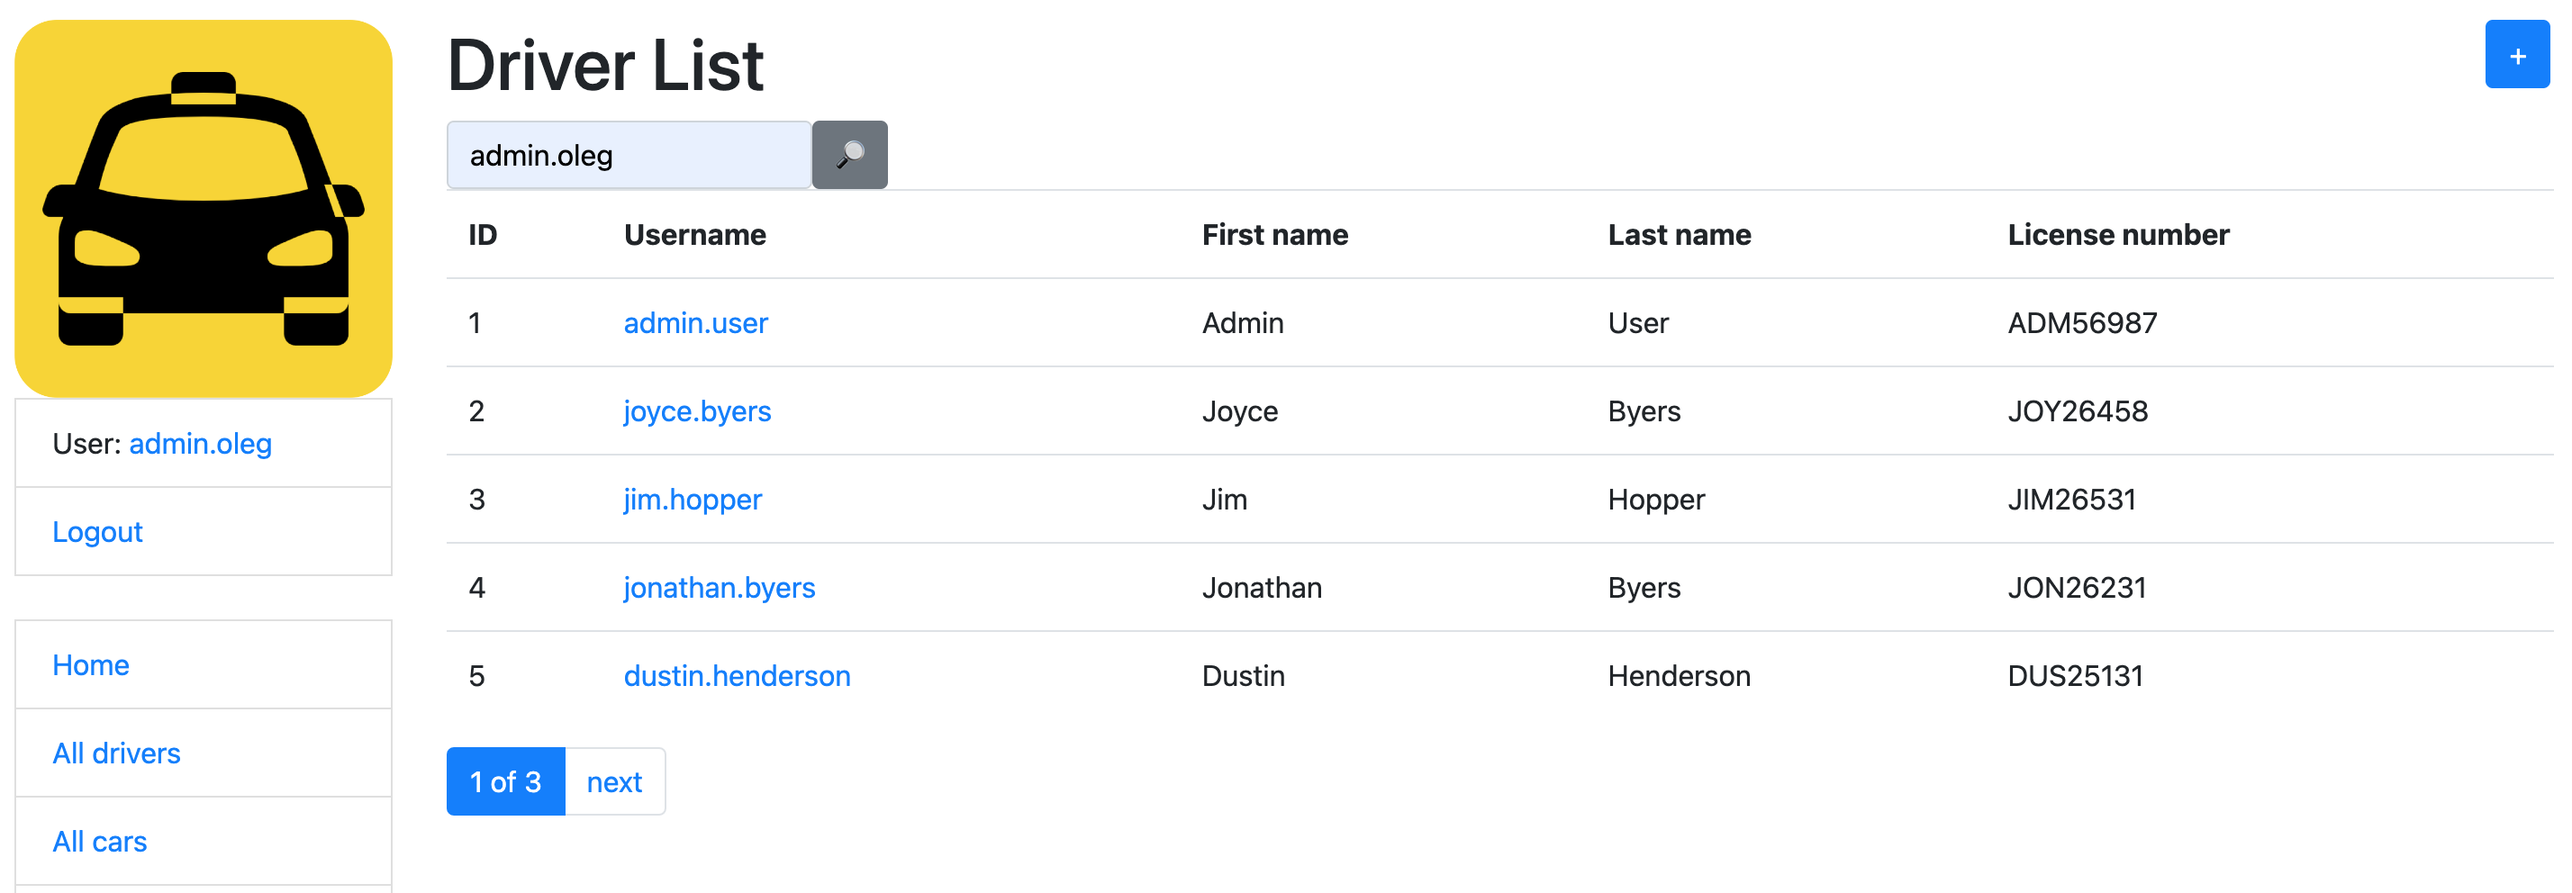
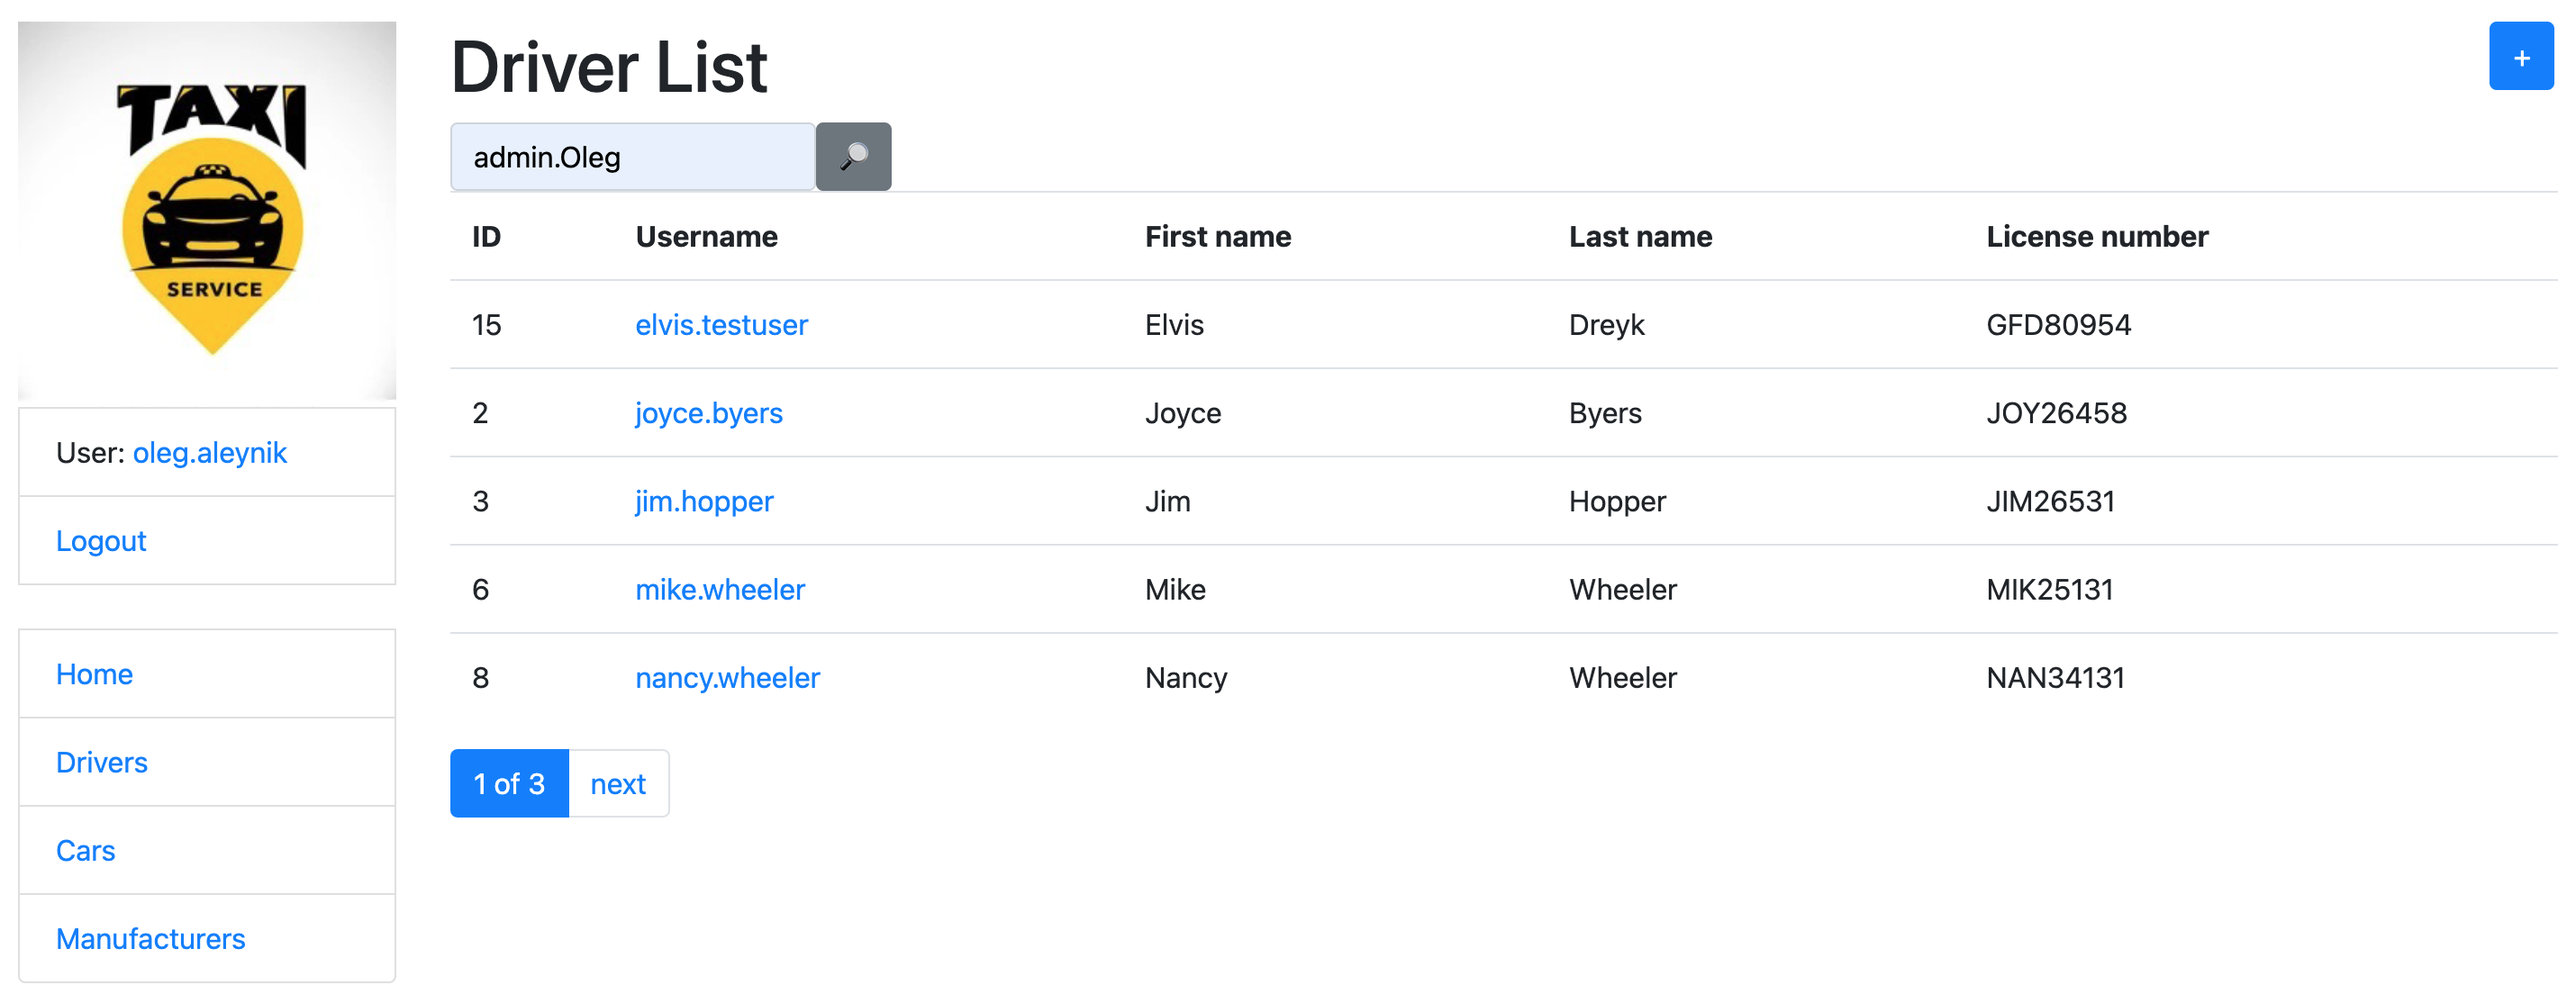
Updated README.md

diff --git a/templates/includes/sidebar.html b/templates/includes/sidebar.html
@@ -11,7 +11,7 @@
   <br>
 
   <li class="list-group-item"><a href="{% url 'taxi_app:index' %}">Home</a></li>
-  <li class="list-group-item"><a href="{% url 'taxi_app:driver-list' %}">All drivers</a></li>
-  <li class="list-group-item"><a href="{% url 'taxi_app:car-list' %}">All cars</a></li>
-  <li class="list-group-item"><a href="{% url 'taxi_app:manufacturer-list' %}">All manufacturers</a></li>
+  <li class="list-group-item"><a href="{% url 'taxi_app:driver-list' %}">Drivers</a></li>
+  <li class="list-group-item"><a href="{% url 'taxi_app:car-list' %}">Cars</a></li>
+  <li class="list-group-item"><a href="{% url 'taxi_app:manufacturer-list' %}">Manufacturers</a></li>
 </ul>

diff --git a/templates/taxi_app/manufacturer_list.html b/templates/taxi_app/manufacturer_list.html
@@ -5,7 +5,7 @@
   <h1>
     Manufacturer List
     <a href="{% url 'taxi_app:manufacturer-create' %}" class="btn btn-primary link-to-page">
-      Create
+      +
     </a>
   </h1>
   <form action="" method="get" class="form-inline">

diff --git a/templates/taxi_app/car_list.html b/templates/taxi_app/car_list.html
@@ -5,7 +5,7 @@
   <h1>
     Car list
     <a href="{% url 'taxi_app:car-create' %}" class="btn btn-primary link-to-page">
-      Create
+      +
     </a>
   </h1>
   <form action="" method="get" class="form-inline">
